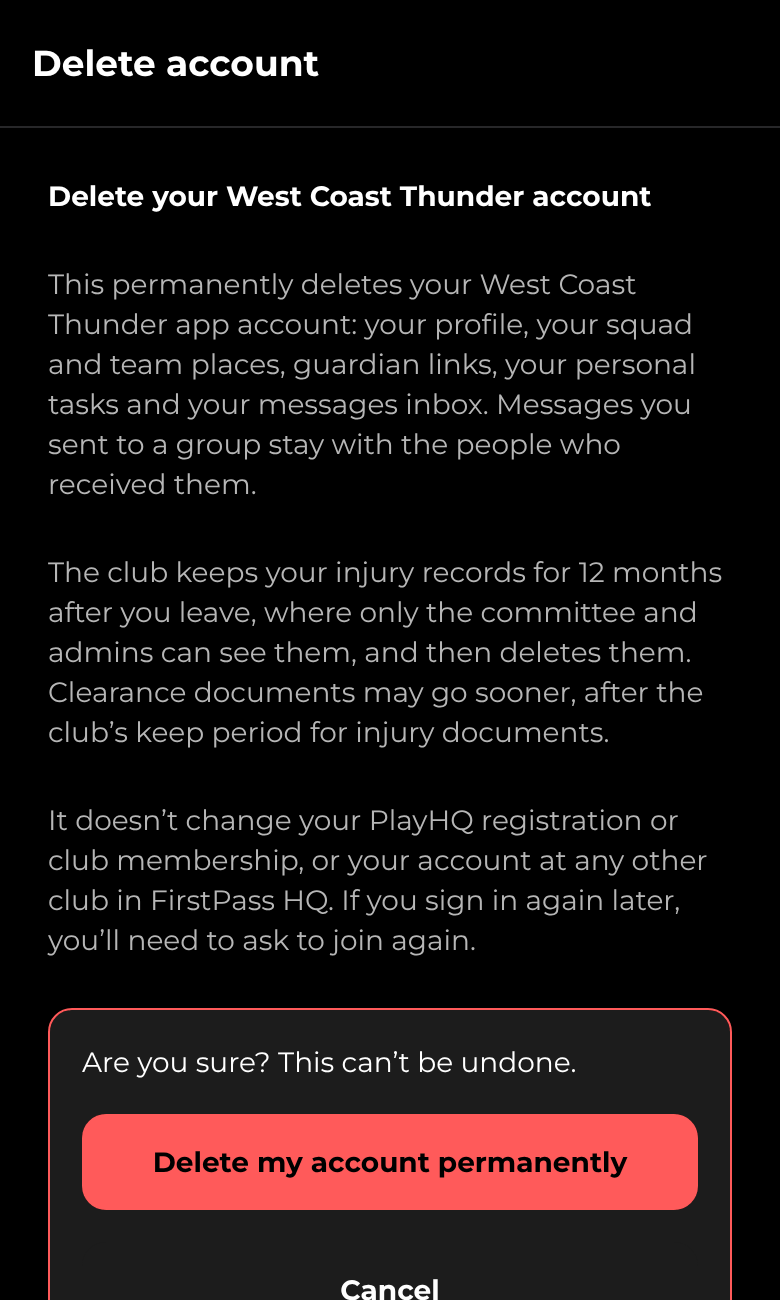
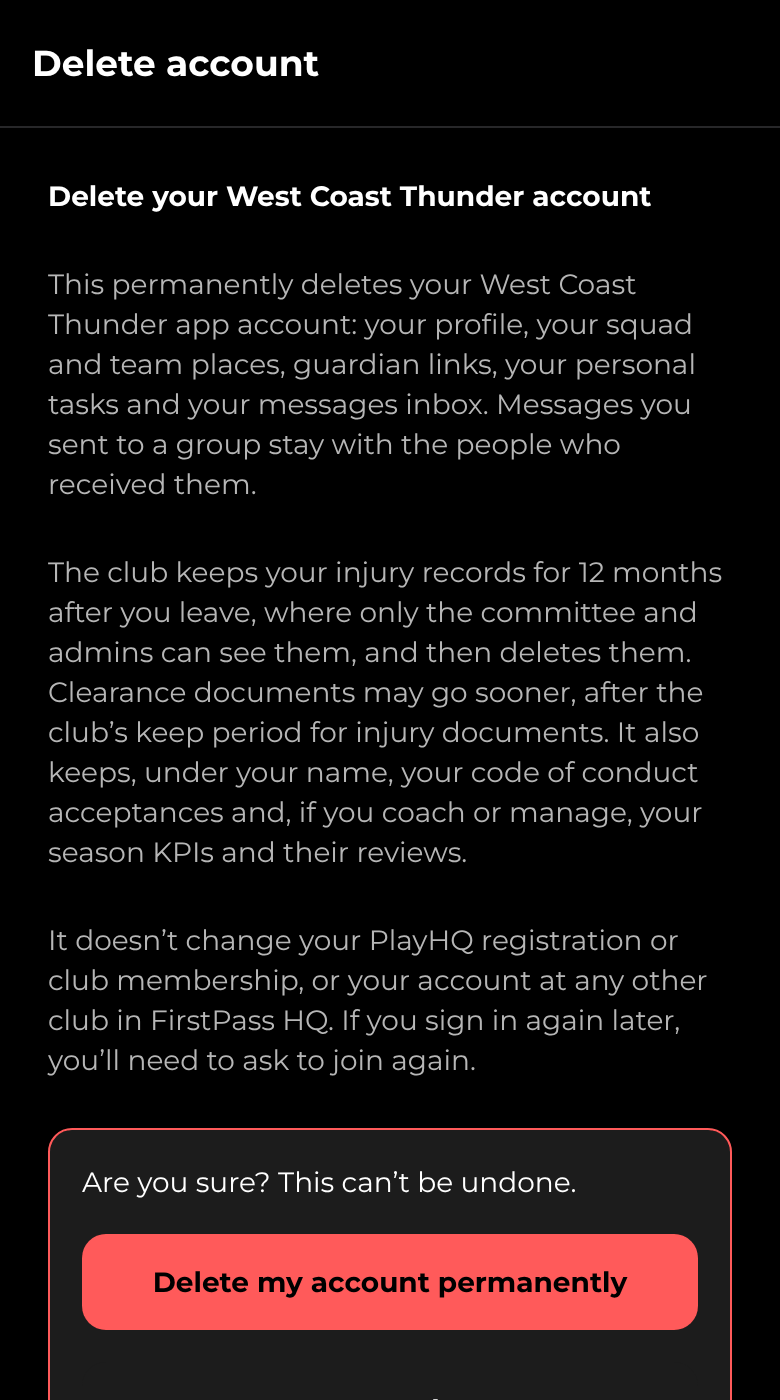
Manager guide audit: enforce clearance at the database, keep records after deletion, guide fixes
Before: a coach, manager or physio whose check had expired still read their groups' rosters, captains, calendars, fixtures and games at the database (only the home screen hid them), a deleted account took the club's code of conduct record and the person's season KPIs with it, and the guide's manager section had several claims the app didn't match.

After: is_team_member and may_view_game need can_work_with_children() for staff placements; conduct acceptances and season KPI sheets and reviews outlive the profile with the member's name and leaving time, and the admin Season KPIs report lists people who have left; in-app texts corrected (who sets a manager's KPIs, coaching hint on Your details, inbox empty text, squad or team in join cards, delete-account copy); user guide sections 1, 2, 3, 6, 7, 10, 11 and 12 corrected and section 7 expanded; manager home and delete account screenshots reshot.

Migration 20261017070000_manager_guide_audit.sql is additive (new columns, a trigger, replaced functions, dropped foreign keys); tested locally with thunder/sql/tests/manager-guide-audit.sql, row counts unchanged.

Claude-Session: https://claude.ai/code/session_013hs1ydWNF97ddDzfdg5awv

Changed region(s): [[0.0615, 0.1231, 0.9538, 0.9538], [0.0308, 0.0308, 0.4308, 0.0615], [0.4308, 0.9846, 0.5846, 1.0]]

diff --git a/src/lib/reports.ts b/src/lib/reports.ts
@@ -1532,6 +1532,7 @@ export type KpiReportRow = {
   full_name: string;
   team_role: TeamRole;
   coach_title: CoachTitle | null;
+  left_at: string | null;
   kpi_id: string | null;
   format: KpiFormat | null;
   title: string | null;
@@ -1606,7 +1607,7 @@ export function kpiReport(seasonName: string, rows: KpiReportRow[], today: strin
         { label: 'Reviews', width: 1.6 },
       ],
       rows: list.map((r) => {
-        const person = `${r.full_name}\n${teamPositionLabel(r.team_role, r.coach_title)}`;
+        const person = `${r.full_name}\n${teamPositionLabel(r.team_role, r.coach_title)}${r.left_at ? `\nLeft the club ${localDay(r.left_at)}` : ''}`;
         const reviewOverdue = r.reviews.some((v) => !v.written && v.due_on < today);
         if (!r.kpi_id) {
           return { cells: [person, 'No KPIs set', '', '', ''], flag: true };
@@ -1625,6 +1626,6 @@ export function kpiReport(seasonName: string, rows: KpiReportRow[], today: strin
       empty: 'No coaches or managers.',
     })),
     footnote:
-      'Results are recorded by whoever sets the KPIs: the committee and admins for coaches and managers, and head coaches for their assistants. Athletes’ KPIs aren’t in this report.',
+      'Results are recorded by whoever sets the KPIs: the committee and admins for coaches and managers, and head coaches for their assistants. Athletes’ KPIs aren’t in this report. Coaches and managers who have deleted their account stay on it, with the day they left.',
   };
 }

diff --git a/src/app/index.tsx b/src/app/index.tsx
@@ -802,7 +802,7 @@ function JoinStatus() {
       <Card>
         <ThemedText type="smallBold">Request to join the club</ThemedText>
         <ThemedText type="small" themeColor="textSecondary">
-          Tell us who you are so an admin can add you to your team.
+          Tell us who you are so an admin can add you to your squad or team.
         </ThemedText>
         <View style={styles.cardAction}>
           <Button title="Request to join" onPress={() => router.push('/join')} />
@@ -822,8 +822,8 @@ function JoinStatus() {
       <Card>
         <ThemedText type="smallBold">Waiting for approval</ThemedText>
         <ThemedText type="small" themeColor="textSecondary">
-          A club admin will approve your request and add you to your team. Pull down to check
-          again.
+          A club admin will approve your request and add you to your squad or team. Pull down to
+          check again.
         </ThemedText>
         {profile.verified_at ? (
           <ThemedText type="small" themeColor="textSecondary">

diff --git a/src/app/my-details.tsx b/src/app/my-details.tsx
@@ -21,6 +21,7 @@ export default function MyDetailsScreen() {
 
   const hasTitle = profile?.status === 'approved' && canHoldTitle(rolesOf(profile));
   const groupTitle = profile?.status === 'approved' ? staffTitle(memberships) : '';
+  const coaches = memberships.some((m) => m.team_role === 'coach');
 
   async function save() {
     setSaving(true);
@@ -77,7 +78,7 @@ export default function MyDetailsScreen() {
           <ThemedText>{groupTitle}</ThemedText>
           <ThemedText type="small" themeColor="textSecondary">
             Set by the app from the teams you coach or manage, or your squad if you’re not in a
-            team yet. A club admin can change whether you’re a head or assistant coach.
+            team yet.{coaches ? ' A club admin can change whether you’re a head or assistant coach.' : ''}
           </ThemedText>
         </View>
       ) : null}

diff --git a/src/app/delete-account.tsx b/src/app/delete-account.tsx
@@ -37,7 +37,9 @@ export default function DeleteAccountScreen() {
       <ThemedText type="small" themeColor="textSecondary">
         The club keeps your injury records for 12 months after you leave, where only the
         committee and admins can see them, and then deletes them. Clearance documents may go
-        sooner, after the club’s keep period for injury documents.
+        sooner, after the club’s keep period for injury documents. It also keeps, under your name,
+        your code of conduct acceptances and, if you coach or manage, your season KPIs and their
+        reviews.
       </ThemedText>
       <ThemedText type="small" themeColor="textSecondary">
         It doesn’t change your PlayHQ registration or club membership, or your account at any other

diff --git a/src/lib/kpis.ts b/src/lib/kpis.ts
@@ -253,9 +253,9 @@ export function kpiCountLabel(count: number, results: number) {
 export function whoSetsLabel(teamRole: TeamRole, coachTitle: CoachTitle | null) {
   if (teamRole === 'athlete') return 'Your coaches';
   if (teamRole === 'coach' && coachTitle === 'assistant_coach') {
-    return 'Your head coach and the committee';
+    return 'Your head coach, the committee and admins';
   }
-  return 'The committee';
+  return 'The committee and admins';
 }
 
 /** Who else can read this person's KPIs, for their own sheet. */

diff --git a/src/app/messages/index.tsx b/src/app/messages/index.tsx
@@ -84,7 +84,7 @@ function Inbox({ messages }: { messages: InboxMessage[] | null }) {
   if (messages.length === 0) {
     return (
       <ThemedText type="small" themeColor="textSecondary">
-        No messages yet. Messages from your coaches, managers and the club will show here.
+        No messages yet. Messages from your coaches, managers, captains and the club will show here.
       </ThemedText>
     );
   }

diff --git a/docs/user-guide.md b/docs/user-guide.md
@@ -118,7 +118,7 @@ What each role sees on its home screen:
 | Title, such as President               |         |                 |              |            |       ✓       |               |         |       ✓       |
 | Team title, set by the app             |         |                 |      ✓       |     ✓      |               |               |         |               |
 | Club name, colours, logo and features  |         |                 |              |            |               |               |         |       ✓       |
-| Absence reasons list                   |         |                 |              |            |               |               |         |       ✓       |
+| Manage absence reasons                 |         |                 |              |            |               |               |         |       ✓       |
 | Invite members (QR code and link)      |         |                 |              |            |               |               |         |       ✓       |
 | Affiliation records (when turned on)   |         |                 |              |            |               |               |         |       ✓       |
 | Administration                         |         |                 |              |            |               |               |         |       ✓       |
@@ -215,8 +215,8 @@ The first time you sign in, the home screen asks you to request to join. Tap **R
 and fill in:
 
 - **Your name.**
-- **Date of birth** (DD/MM/YYYY): everyone gives it. An admin checks it against PlayHQ or ID before
-  approving you, and it decides whether the club's rules for under 18s apply.
+- **Date of birth** (DD/MM/YYYY): everyone gives it, and it decides whether the club's rules for
+  under 18s apply. For athletes, an admin checks it against PlayHQ or ID before approving them.
 - **PlayHQ email**: only if you registered with PlayHQ using a different email to the Google account
   you signed in with. Parents and guardians must enter the email they used to register their
   athlete, so the club can confirm who they are. An admin must verify a guardian before linking
@@ -285,8 +285,8 @@ Once you're approved, the home screen is where everything starts. From the top:
   Anything overdue has a **red circle with !**, a red **Overdue** label and a red bar down its
   left edge, and moves to the top of the list. Anything due today or in the next 3 days has an
   **amber triangle with !**, an amber **Due soon** label and an amber bar, and comes next. This
-  covers every to-do with a due date: your own tasks, integrity training, KPI reviews, game goals
-  (due on game day) and an injury past its expected return date. For admins, Working With
+  covers every to-do with a due date: your own tasks, integrity training, KPI reviews you write, game
+  goals (due on game day) and an injury past its expected return date. For admins, Working With
   Children Checks work the same way (see [Admins](#10-admins)).
 - **Cards** for the features your role uses: Messages, Daily check-in, Check-ins,
   Injuries, Attendance, Session plans, My attendance, Awards, Integrity training, Season KPIs,
@@ -396,8 +396,8 @@ committee calendar.
   period) filter which calendars are shown.
 
 Your teams' matches from PlayHQ appear in the calendar too, for example "Mixed Open A v Rockets"
-with the venue and court. A bye shows as an all-day event. Match times follow PlayHQ, so a changed
-time shows once an admin refreshes the fixtures.
+with the venue and court. A match with no time yet, which includes most byes, shows as an all-day
+event. Match times follow PlayHQ, so a changed time shows once an admin refreshes the fixtures.
 
 Tap an event to see when and where it is. Tap the location to open it in maps, or **Copy** to copy
 the address.
@@ -483,7 +483,8 @@ then tap **I agree** to accept the words shown:
 
 > I've read the club's code of conduct and I'll follow it at training, at games and online.
 
-The club keeps your name, the date, the words and the policy version as its record. Each season's
+The club keeps your name, the date, the words and the policy version as its record, and keeps it
+if you later delete your account. Each season's
 acceptance is listed under **Accepted** on the same screen. When the club starts a new season, the
 to-do comes back.
 
@@ -582,7 +583,8 @@ later, you'll need to ask to join again.
 
 The club keeps your injury records for 12 months after you leave, where only the committee and
 admins can see them, and then deletes them. Clearance documents may go sooner, after the club's
-keep period for injury documents. Deleting your account doesn't
+keep period for injury documents. It also keeps, under your name, your code of conduct acceptances
+and, if you coach or manage, your season KPIs and their reviews. Deleting your account doesn't
 change your PlayHQ registration or club membership, or your account at any other club in
 FirstPass HQ.
 
@@ -958,9 +960,12 @@ until you're in a team (see [Your preferred name](#your-preferred-name)); more t
 role joins up, like "Head Coach, Open A and Open" or "Head Coach, Open A · Manager, 17 & Under".
 
 Coaches and managers need a current Working With Children Check, recorded by an admin, before
-they're approved. The check is looked at every time you use the app: once the expiry date has
+they're approved (or an exemption recorded for them; the role stays paused until they accept its
+declaration). The check is looked at every time you use the app: once the expiry date has
 passed, your coach or manager role pauses and your home screen says so. You keep your squad and
-team places, though they're hidden from your home screen until the role comes back, and everything
+team places, though they're hidden from your home screen until the role comes back, along with
+the Messages, Attendance and Check-ins cards, so you can't read messages while paused; the
+database closes your groups' rosters, calendars and fixtures too, not just the screen. Everything
 returns as soon as an admin records the renewed check. Renew it well before it expires; admins are
 reminded 60 days ahead, and 60 days before a parent or under-18 exemption ends.
 
@@ -971,7 +976,8 @@ reminded 60 days ahead, and 60 days before a parent or under-18 exemption ends.
 In WA, a parent who volunteers at the club their own child is in, and any volunteer under 18,
 doesn't need a Working With Children Check and can't apply for one. If that's you, an admin
 records an exemption instead of a card number, and you get a to-do: **Accept the exemption
-declaration**. It opens the declaration, which says you're not paid for the role, you don't have a
+declaration**. It opens the declaration, which says you're not paid for the role (the national
+event declaration leaves this out), you don't have a
 negative notice or an interim negative notice, no other state or territory has refused, suspended
 or cancelled a working with children clearance for you, and you'll tell a club admin straight away
 if any of that changes.
@@ -994,7 +1000,8 @@ more exemptions, and can use only one of them, once, in any 12 months anywhere i
 The admin records the day they arrived, or the event, its organiser and first day. The declaration
 names those dates, and the person confirms they haven't used either exemption anywhere in WA in the
 last 12 months. The exemption applies only between its first and last day, then ends by itself, and
-the app refuses a second one for the same person within 12 months. Being supervised by someone
+the app refuses a second one for the same person within 12 months of one that was accepted and
+had started. Being supervised by someone
 with a check is not an exemption in WA.
 
 <img src="user-guide/volunteer-declaration.png" width="210" alt="The volunteer declaration a parent volunteer accepts">
@@ -1187,7 +1194,8 @@ recorded and shown to the athlete, their parents or guardians and admins.
    after it ends), its name is filled in for you; other events from today are offered as chips.
    You can change the name after it's filled in.
 4. Mark each athlete **Present** or **Absent**, or tap **Mark the rest present**; everyone must be
-   marked before you can save. Athletes whose
+   marked before you can save a new session (when correcting one later, athletes can stay **Not
+   marked**). Athletes whose
    absence was reported for that day show **Away** under their name, with the reason and any
    details. Injured athletes show **Injured** and when they're expected back, and nothing else about the
    injury. Injured athletes are still expected to come and support the team, so mark them like
@@ -1203,7 +1211,8 @@ session.
 
 ### Attendance records
 
-- **Sessions** lists past sessions. Open one to see who was there, and **Change attendance** to
+- **Sessions** lists past sessions (managers, who have no **Athletes** tab, find the list under the
+  absence cards). Open one to see who was there, and **Change attendance** to
   correct it; athletes who joined the group since show as **Not marked**.
 - **Athletes** shows each athlete's attendance over 4 weeks, 3 months or 12 months, with the last
   time they were there. Tap an athlete to see every session.
@@ -1278,19 +1287,35 @@ delete a plan: ask an admin if one was added by mistake.
 ## 7. Managers
 
 Managers look after the logistics of their squads and teams. The app titles you from your team, or
-your squad until you're in a team, like "Manager, 17 & Under". As a manager you can:
+your squad until you're in a team, like "Manager, 17 & Under", and your home screen shows your role
+and title together, like "Manager · Manager, 17 & Under". As a manager you can:
 
 - **Send messages** to the squads and teams you manage, and see read receipts, the same way as
-  coaches (see [Sending messages](#sending-messages)).
+  coaches (see [Sending messages](#sending-messages)). Physios placed in your group get them too,
+  and if you're also on the committee you choose between **Everyone** and **A squad or team**.
 - **Take attendance** for your groups, a whole squad or the whole club, and see and correct your
-  own groups' sessions (see [Taking attendance](#taking-attendance)).
-- **Work on your season KPIs**, if the club uses them: the committee sets them, and you record your
-  progress and confirm your reviews (see [Season KPIs](#season-kpis)).
+  own groups' sessions, every whole-club session and any session you took yourself (see
+  [Taking attendance](#taking-attendance)). With a manager role but no squad or team yet, you can
+  still take whole-squad and whole-club attendance.
+- **Work on your season KPIs**, if the club uses them: the committee and admins set them, and you
+  record your progress, add a note on the result and confirm your reviews (see
+  [Season KPIs](#season-kpis)). The card shows once you're in a current squad or team.
+- **Vote in club awards** that name managers, or every member, as voters, and be nominated in
+  awards open to any member (see [Club awards](#club-awards)).
 
 Managers see the absences reported for their groups, on the register and under **Away in the next 4
 weeks**. Like coaches, they get a **To do** item when an absence is reported or withdrawn for one
 of their groups, and clear it with **Mark as reviewed** under **New or changed absences** (see
-[Attendance records](#attendance-records)). They don't see athletes' attendance histories, check-ins or injuries.
+[Attendance records](#attendance-records)). The register also shows who took each session, each
+absence's reason, and **Injured, back** with the date for an injured athlete, whatever the consent
+choices, and nothing else about the injury. Managers don't see athletes' attendance histories,
+check-ins, injuries, game goals, team goals or session plans.
+
+While your check has expired, or an exemption has ended or hasn't been accepted yet, your home
+screen says **Manager (paused)** and the Messages, Attendance and My squads and teams cards are
+hidden: you can't read or send messages, take attendance or open your groups until an admin records
+the renewed check, and the database closes those too, not just the screen. A stand-down removes
+your squad and team places for the season; lifting it puts them back.
 
 <img src="user-guide/manager-home.png" width="210" alt="Manager home screen">
 <img src="user-guide/attendance-warning.png" width="210" alt="Warning that attendance may already have been taken">
@@ -1621,8 +1646,8 @@ The app won't approve or save:
   exemption they've accepted covering every day they help. Changing an approved helper's dates
   is refused too if their check or exemption doesn't cover the new ones.
 
-Approval isn't the only time the check counts. A coach's, manager's or physio's role pauses on the
-day their check expires, and so does a committee member's when a check you recorded for them
+Approval isn't the only time the check counts. A coach's, manager's or physio's role pauses the day
+after their check expires, and so does a committee member's when a check you recorded for them
 expires. They keep their squad and team places and see a note on their home screen; the role
 comes back as soon as you record the renewed check. A volunteer exemption works the same way: the
 role pauses when it ends by itself, and **Needs checking** lists them 60 days before. An admin's
@@ -2080,7 +2105,8 @@ everyone ever stood down, newest first, with the
 - **Season KPIs** (when Season KPIs are on): pick the season. Each squad and team lists its coaches
   and managers with each KPI or OKR, who set it, where each measure is up to against its target, the
   result and each review (written, confirmed or overdue). Anyone with no KPIs, or a review overdue,
-  is in red. It prints across the page. Athletes' KPIs aren't in it.
+  is in red. Coaches and managers who have deleted their account stay on it, with the day they
+  left. It prints across the page. Athletes' KPIs aren't in it.
 - **Award results** (when Awards are on): awards whose voting has closed. Open one for its full
   result: each squad or team's standings with points and how many 1st, 2nd and 3rd place votes
   (and so on) each nominee got, how many people voted, and for match awards the points from each
@@ -2350,8 +2376,8 @@ once saved, only replaced or removed, and anyone who gets it wrong five times in
 
 | Information             | Who can see it                                                                                                              |
 | ----------------------- | --------------------------------------------------------------------------------------------------------------------------- |
-| Your profile and squads | You, the people in your squads and teams (names and positions only), and admins.                                            |
-| Preferred name and title | You and admins.                                                                                                            |
+| Your profile and squads | You, the people in your squads and teams (names and positions only), and admins. Your name also shows to anyone choosing who a concern is about, and on absences you report. |
+| Preferred name and title | You and admins; your preferred name then shows wherever your name does.                                                 |
 | Your own personal tasks | Only you. Not your parents or guardians, coaches, the committee or admins. They can't be shared or sent to anyone. |
 | Captains                | Club captains: every member. A squad or team's captains: the people in it, and admins.                                     |
 | Date of birth, Working With Children Check and exemption | You and admins. Awards with an age limit use it to decide who can be voted for, without showing it.   |
@@ -2373,17 +2399,17 @@ once saved, only replaced or removed, and anyone who gets it wrong five times in
 | Who has viewed a child's records | For an athlete under 18: their verified parents or guardians (until the athlete turns 18) and admins. Lists every time someone other than the athlete or their guardians opened the athlete's injuries, injury documents, check-ins, game goals, season KPIs or member record. Opening a child's records is recorded whoever you are; nobody can switch it off or delete entries by hand, and old entries are removed only under the club's Keeping records settings. |
 | Consents for a child    | The athlete, their parents or guardians and admins, with every consent given and withdrawn. Only a verified parent or guardian can give or withdraw one. |
 | Club policies           | Everyone signed in, including people asking to join.                                                                        |
-| Code of conduct acceptances | The member, their parents or guardians and admins: each season's acceptance, who accepted it, when, the words and the policy version. |
-| Game goals and reflections | The athlete, their guardians and their coaches. Only the athlete and their coaches set goals, and only the athlete reflects; guardians just read them. The committee, physios and admins don't see them. |
-| Season KPIs, progress and reviews | An athlete's: the athlete, their coaches in that squad or team, their parents or guardians (read only, until 18) and admins (read only). Not teammates, the committee or physios. A coach's or manager's: them, the committee and admins, and an assistant coach's head coach. Only those who set KPIs change them, record results and write reviews; the person records progress, confirms reviews and adds their own view. |
-| Live game stats         | Admins and statisticians: every game the club records. The coaches and managers of the game's squad or team see that a game is set up, and its stats once they pair with its code in FirstPass Vision. Athletes, guardians, physios and the committee don't see them. |
+| Code of conduct acceptances | The member, their parents or guardians and admins: each season's acceptance, who accepted it, when, the words and the policy version. Kept under the member's name if they delete their account. |
+| Game goals and reflections | The athlete, their guardians and their coaches. Only the athlete and their coaches set goals, and only the athlete reflects; guardians just read them. The committee, managers, physios and admins don't see them. |
+| Season KPIs, progress and reviews | An athlete's: the athlete, their coaches in that squad or team, their parents or guardians (read only, until 18) and admins (read only). Not teammates, the committee or physios. A coach's or manager's: them, the committee and admins, and an assistant coach's head coach. Only those who set KPIs change them, record results and write reviews; the person records progress, confirms reviews and adds their own view. A coach's or manager's KPIs and reviews are kept under their name if they delete their account, and stay on the admin report. |
+| Live game stats         | Admins and statisticians: every game the club records. The coaches and managers of the game's squad or team see the team's games at every stage and who has paired with each, and the stats once they pair with its code in FirstPass Vision. Athletes, guardians, physios and the committee don't see them. |
 | Team goals              | The team's athletes, their guardians, its coaches and admins. Only its coaches set and review them. Athletes and coaches in the team can comment; guardians and admins read the comments. Managers and physios placed in the team don't see them. |
-| Integrity training certificates | The member, their parents or guardians, the committee and admins. Coaches don't see them. Certificates can't be changed or removed once sent. |
+| Integrity training certificates | The member, their parents or guardians, the committee and admins. Coaches, managers and physios don't see them. Certificates can't be changed or removed once sent. |
 | Attendance records      | The committee and admins see every session. Coaches and managers see their own groups' sessions, whole-club sessions and any they took themselves. An athlete sees their own marks, and their parents or guardians see them until the athlete turns 18; neither sees other athletes on the register. |
 | What's changed for a child | Their parents or guardians (until the child turns 18) and admins: adults joining or leaving the child's squads and teams, the child's own group changes, guardian links, consents and shared injury documents. A stand-down shows only as the adult leaving. |
 | Session plans           | The coach or admin who added the plan, and admins. The people the author shares it with: the other coaches of its squad or team, its athletes and the parents and guardians of those under 18, and coaches of other groups chosen by name. Read only: nobody can reply or react. Only the author and admins change it; only admins delete it. Managers, physios and the committee don't see plans unless they also coach. |
 | Reported absences       | The athlete, their parents or guardians, the coaches and managers of the athlete's squads and teams, the committee and admins, with the reason and details. Physios don't see them. The Attendance report counts reasons only, never the details. |
-| Absence reasons         | Everyone signed in sees the list. Only admins switch reasons off or add them.                                                |
+| Absence reasons         | Every approved member sees the list. Only admins switch reasons off or add them.                                             |
 | Committee calendar      | Committee members and admins.                                                                                               |
 | Award votes             | Only the voter sees their own ballot. Nobody, admins included, can see who someone voted for.                               |
 | Award results           | Admins only: standings and how many people have voted, and once voting closes, how many votes each nominee got at each place. |
@@ -2546,7 +2572,8 @@ Working With Children Check, and another admin must do it.
   exemptions](#volunteer-exemptions)). The exemption ends by itself when the child or volunteer
   turns 18.
 - **Your role pauses the day after your check expires**, and comes back when an admin records the
-  renewed check. Admins are reminded 60 days ahead, and 60 days before a parent or under-18
+  renewed check. While it's paused the database closes your groups' rosters, calendars, fixtures,
+  messages, attendance and plans; they aren't only hidden on the screen. Admins are reminded 60 days ahead, and 60 days before a parent or under-18
   exemption ends.
 - **Helping for a day still needs a check.** WA has no exemption for a few hours or a day, and
   being supervised by a cardholder doesn't count. Someone helping briefly joins as a **Temporary
@@ -2559,8 +2586,8 @@ Working With Children Check, and another admin must do it.
 - **A record of what was coached.** Session plans, written before or after each session, show
   what each squad or team did and who ran it (see [Session plans](#session-plans)). Photos are of
   the plan, not of athletes.
-- **Opening a child's records is recorded.** When you open an under 18's injuries, injury
-  documents, check-ins, game goals or season KPIs, the app records it, and their verified parents
+- **Opening a child's records is recorded.** If your role lets you open an under 18's injuries,
+  injury documents, check-ins, game goals or season KPIs, the app records it when you do, and their verified parents
   and guardians can see who looked and when.
 - **Visitors from outside WA.** The short-term visitor exemption (two weeks from arrival) and the
   national event or tour exemption (up to 30 days at the event) each record their dates, end by
